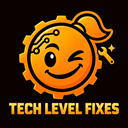
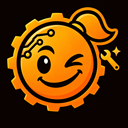
Re-crop the ModIcon to drop the lettering
Centred square crop above the text, plain background where the lettering was,
reduced to 128x128 (18.9 KB). The mascot and its gear stay identifiable at
32 px; the source with the lettering is still in Art/.

diff --git a/STATUS.md b/STATUS.md
@@ -21,7 +21,7 @@ remaining:
   - unverified: TESTING.md written 2026-09-17 (8 functional scenarios, preconditions/actions/expected results); none has been run in game
   - unverified: no automated C# test harness exists (no C# to test)
 session:      local_bda06393-deee-42a0-8f7b-5796fbec672f
-updated:      2026-09-20, Preview overlay completed at the bottom left (title, rule, summary, 1.6 badge); preOptions, options, l10n validated; preTest blocked on unverifiable ids/defNames of 22 uninstalled source mods
+updated:      2026-09-20, ModIcon re-cropped to remove the lettering (128x128, 18,907 bytes); preOptions, options, l10n validated; preTest blocked on unverifiable ids/defNames of 22 uninstalled source mods
 ---
 
 # Nelim's Tech Level Fixes — status
@@ -66,7 +66,7 @@ has started.
 | Transition destination | Result | Evidence |
 | --- | --- | --- |
 | horsMonoRepo | Validated | As of 2026-09-17: GitHub repository `vbardales/rimworld-nelim-tech-level-fixes` created (public, user-validated exception to the "Nelim-prefixed = private" default), remote `origin` configured, commits pushed. STATUS.md exists. README.md, ATTRIBUTION.md, LICENSE (MIT) and CHANGELOG.md exist in English at the repository root, with LICENSE and ATTRIBUTION.md duplicated into `Mod/`. `.gitignore` and `.gitattributes` added. `packageId` (`nelim.techlevelfixes`), the displayed name (`Nelim's Tech Level Fixes`), the folder name (`TechLevelFixes`) and the repository name are mutually coherent. |
-| ModIcon generated | Validated | Development is finished (30 generated patch files, no build applicable: no C#). `Mod/About/ModIcon.png` is a 128x128 PNG, 19,025 bytes, produced on 2026-09-20 from the user's raw 1254x1254 generation (kept as `Art/ModIcon-source.png`, byte-identical to what was dropped in). Directly inspected at 128 px and at a 32 px copy enlarged 6x: the winking orange mascot and its gear stay identifiable at 32 px; the lettering does not (see reservations). The first raw drop (1254x1254, 1,114,566 bytes) was a defect and is superseded. |
+| ModIcon generated | Validated | Development is finished (30 generated patch files, no build applicable: no C#). `Mod/About/ModIcon.png` is a 128x128 PNG, 18,907 bytes, produced on 2026-09-20 from the user's raw 1254x1254 generation (kept as `Art/ModIcon-source.png`, byte-identical to what was dropped in). First reduced whole (19,025 bytes), then re-cropped the same day at the user's request to drop the lettering "TECH LEVEL FIXES" (see "Icon re-crop"). Directly inspected at 128 px and at a 32 px copy enlarged 6x: the winking orange mascot, its gear, the ponytail and the wrench stay identifiable at 32 px, larger than before, and no lettering remains. The first raw drop (1254x1254, 1,114,566 bytes) was a defect and is superseded. |
 | Preview generated | Validated | `Mod/About/Preview.png` is a 896x504 (16:9) PNG, 868,710 bytes, under both the 900 KB target and the 1 MB hard limit. It is the top 1536x864 band of the user's raw 1536x1024 generation (kept unchanged as `Art/Preview.png`), reduced with high-quality bicubic resampling; the crop removes only floor at the bottom. Directly inspected at full size and at a 268 px thumbnail: high oblique camera, tiled floor, one lamp pool, one dark settler from behind, four objects still identifiable at 268 px; no camera defect observed, no readable text. No overlay yet: title and badge belong to preOptions. The first raw drop (1536x1024, 2,070,420 bytes) was a defect and is superseded. |
 | preOptions | Validated | Preview adjusted on 2026-09-20 (see "Preview overlay"): accent `#3AAEF0` (blue family) is clearly separate from the secondary ink `#E0A870` (warm brown family), 172 degrees apart in hue, checked visually at 896x504 and at a 268 px thumbnail. Description is in English and ends, after the feature text, with exactly `[url=https://github.com/vbardales/rimworld-nelim-tech-level-fixes]Source code on GitHub[/url]` as its last element; that target equals the `origin` remote and the `<url>` field, and `gh repo view` confirmed the repository exists and is public. Naming: `Nelim's` is the prefix (reduced to 65% in secondary ink), `Tech Level Fixes` keeps 100% in primary ink; no `Renew`/`Extended`/`Plus` suffix applies to an original mod, and the title has no connecting word to reduce. No `(prohibited)`/`(unofficial)` tag applies (public, licence `original`). |
 | options | Validated (not applicable, justified) | `settings_audit: not_applicable`, established by static inventory: no C# and no assembly anywhere in the tree, and the only XML besides About.xml is patch files writing `<techLevel>`, so no settings owner, page or MainButtons shortcut can exist (see "Settings audit"). Re-checked against the full 30-file tree after the Zombieland addition. No in-game integration is claimed as tested; none is required for this step. |
@@ -355,6 +355,18 @@ thumbnail (inspection copies live in the ignored scratchpad, not the repo).
 Result: `ModIcon générée` and `Preview générée` **validated**, so
 `workflow_stage` is now `Preview générée`.
 
+### Icon re-crop — 2026-09-20, at the user's request ("juste retaille-la")
+
+Measured on `Art/ModIcon-source.png` (1254x1254): the background is a flat
+`rgb(9,2,0)` at all four corners and along the top edge; the mascot, gear, wrench
+and sparkle span columns 188-1130 and rows 106-975; rows 980-1005 are empty; the
+lettering occupies rows 1008-1115. The icon is now a 1062 px square, source
+columns 128-1189, rows 46-994, so the content has an equal 60 px margin on each
+side, then reduced to 128x128 with bicubic resampling. The rows below 994 are the
+plain background colour where the lettering was, so nothing but background was
+replaced; the source image is unchanged. Only `Mod/About/ModIcon.png` and this
+file changed. No new image was generated.
+
 ### Preview overlay — 2026-09-20, at the user's request (title and badge, then summary)
 
 Composition, palette and renderer live in `Art/`: `preview.html`,
@@ -427,12 +439,10 @@ their packageIds.
 
 ### Reservations (non-blocking, not required to pass)
 
-- The icon carries the words "TECH LEVEL FIXES". The icon block of
-  STYLE_RIMWORLD.md asks for no text. At 32 px the lettering is confirmed
-  illegible (a smudged strip under the mascot), while the mascot's head and wink
-  remain identifiable; the wrench beside the head is lost at that size. This is a
-  visual doubt with a concrete reason, not a defect against a mandatory
-  criterion; the user may prefer to regenerate the icon without text.
+- (Resolved 2026-09-20, see "Icon re-crop".) The first icon carried the words
+  "TECH LEVEL FIXES", illegible at 32 px and against the icon block of
+  STYLE_RIMWORLD.md, which asks for no text. The original with its lettering is
+  still `Art/ModIcon-source.png`.
 - The Preview is on the dark side (mostly cold-brown floor), as STYLE_RIMWORLD.md
   itself notes of the whole family.
 
